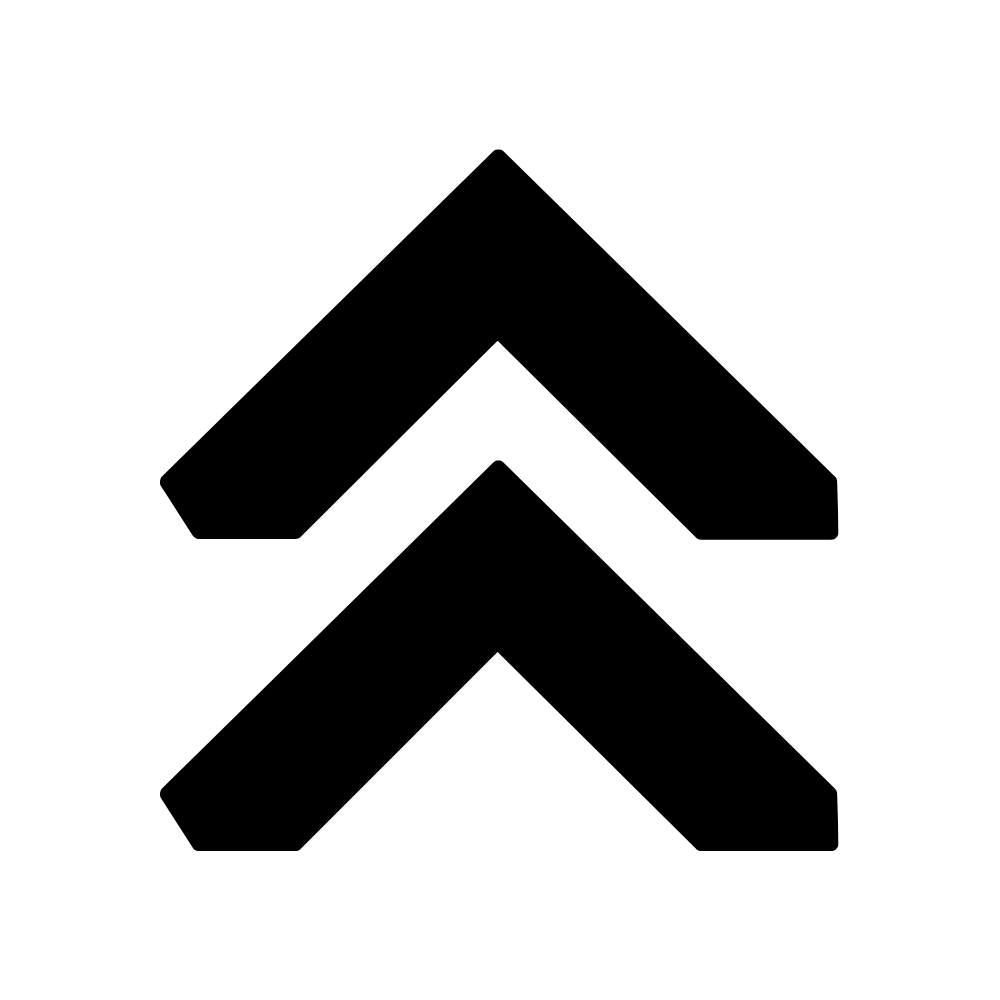
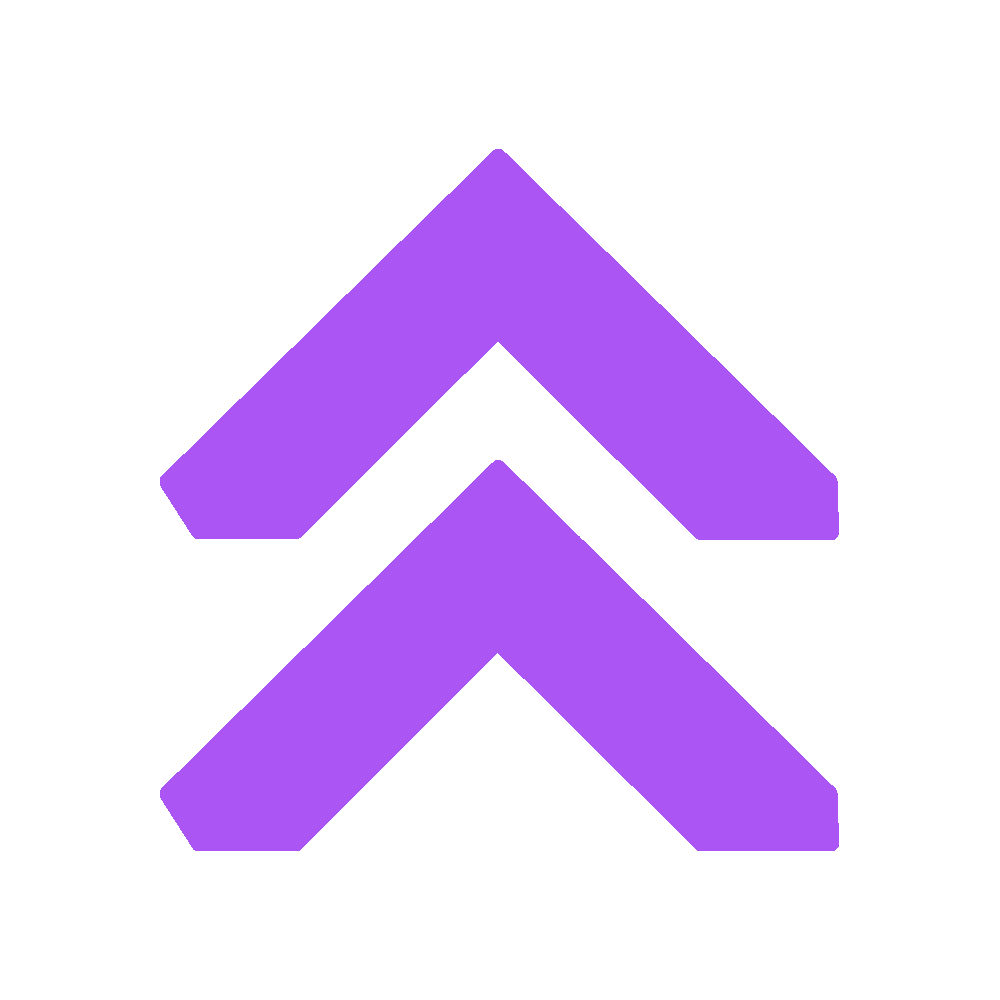
Update style

Changed region(s): [[0.155, 0.155, 0.837, 0.558], [0.155, 0.465, 0.837, 0.868]]

diff --git a/style.css b/style.css
@@ -60,10 +60,10 @@ a {
 }
 
 a:hover {
-  color: grey;
+  color: #417ff5;
   text-decoration: underline;
   text-underline-offset: 1rem;
-  text-decoration-color: rgb(181, 181, 181);
+  text-decoration-color: #417ff5;
 }
 
 .logo {
@@ -101,7 +101,7 @@ a:hover {
 .hamburger-icon span {
   width: 100%;
   height: 2px;
-  background-color: black;
+  background-color: #ea0f9d;
   transition: all 0.3 ease-in-out;
 }
 
@@ -109,7 +109,7 @@ a:hover {
   position: absolute;
   top: 100%;
   right: 0;
-  background-color: white;
+  background-color: transparent;
   width: fit-content;
   max-height: 0;
   overflow: hidden;
@@ -242,10 +242,11 @@ section {
   width: 8rem;
   border-radius: 2rem;
 }
-
+/* #417ff5, #ab56f4 */
 .btn-color-1,
 .btn-color-2 {
-  border: rgb(53, 53, 53) 0.1rem solid;
+  border: #417ff5 0.1rem solid;
+  color: #417ff5;
 }
 
 .btn-color-1:hover,
@@ -255,12 +256,19 @@ section {
 
 .btn-color-1,
 .btn-color-2:hover {
-  background: rgb(53, 53, 53);
-  color: white;
+  background: transparent;
+  
+  
+}
+.btn.btn-color-2{
+  border: #417ff5 0.1rem solid;
+  color: #417ff5;
 }
 
 .btn-color-1:hover {
-  background: rgb(0, 0, 0);
+  background: #ab56f4;
+  border: #ab56f4 0.1rem solid;
+  color: white;
 }
 
 .btn-color-2 {
@@ -268,7 +276,9 @@ section {
 }
 
 .btn-color-2:hover {
-  border: rgb(255, 255, 255) 0.1rem solid;
+  background: #ab56f4;
+  border: #ab56f4 0.1rem solid;
+  color: white;
 }
 
 .btn-container {
@@ -285,6 +295,7 @@ section {
   gap: 2rem;
   margin-bottom: 2rem;
   margin-top: 2rem;
+  
 }
 
 .about-details-container {
@@ -329,8 +340,8 @@ section {
   box-shadow: 0 0 10px rgba(0,0,0,0.25);
   backdrop-filter: blur(10px);
   border-radius: 2rem;
-  border: rgb(53, 53, 53) 0.1rem solid;
-  border-color: rgb(163, 163, 163);
+  border: #ab56f4 0.1rem solid;
+  border-color: #ab56f4;
   text-align: center;
 }
 
@@ -353,7 +364,7 @@ section {
 }
 
 .experience-sub-title {
-  color: rgb(85, 85, 85);
+  color: #417ff5;
   font-weight: 600;
   font-size: 1.75rem;
   margin-bottom: 2rem;
@@ -392,7 +403,7 @@ article .icon {
 }
 
 .color-container {
-  border-color: rgb(163, 163, 163);
+  border-color: #ab56f4;
   background: rgba(255,255,255,.05);
   box-shadow: 0 0 10px rgba(0,0,0,0.25);
   backdrop-filter: blur(10px);
@@ -406,7 +417,7 @@ article .icon {
 
 .project-title {
   margin: 1rem;
-  color: black;
+  color: #417ff5;
 }
 
 .project-btn {
@@ -432,8 +443,8 @@ article .icon {
   
   justify-content: center;
   border-radius: 2rem;
-  border: rgb(53, 53, 53) 0.1rem solid;
-  border-color: rgb(163, 163, 163);
+  border: #ab56f4 0.1rem solid;
+  border-color: #ab56f4;
   background: (250, 250, 250);
   padding: 0.1rem;
 }

diff --git a/mediaqueries.css b/mediaqueries.css
@@ -118,7 +118,7 @@
     font-size: 2rem;
   }
   .text-container {
-    text-align: justify;
+    text-align:inherit;
   }
   .arrow_up{
     display: none;    
